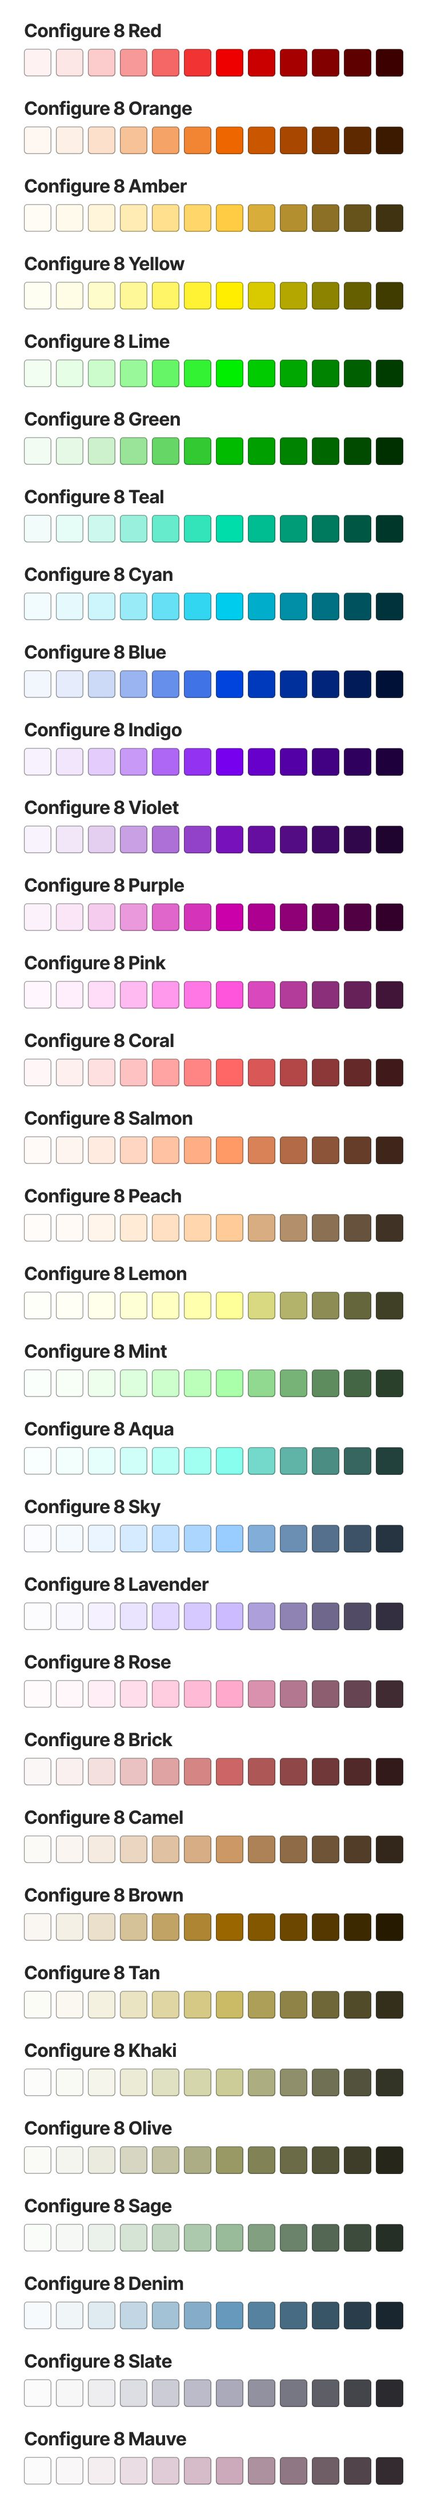
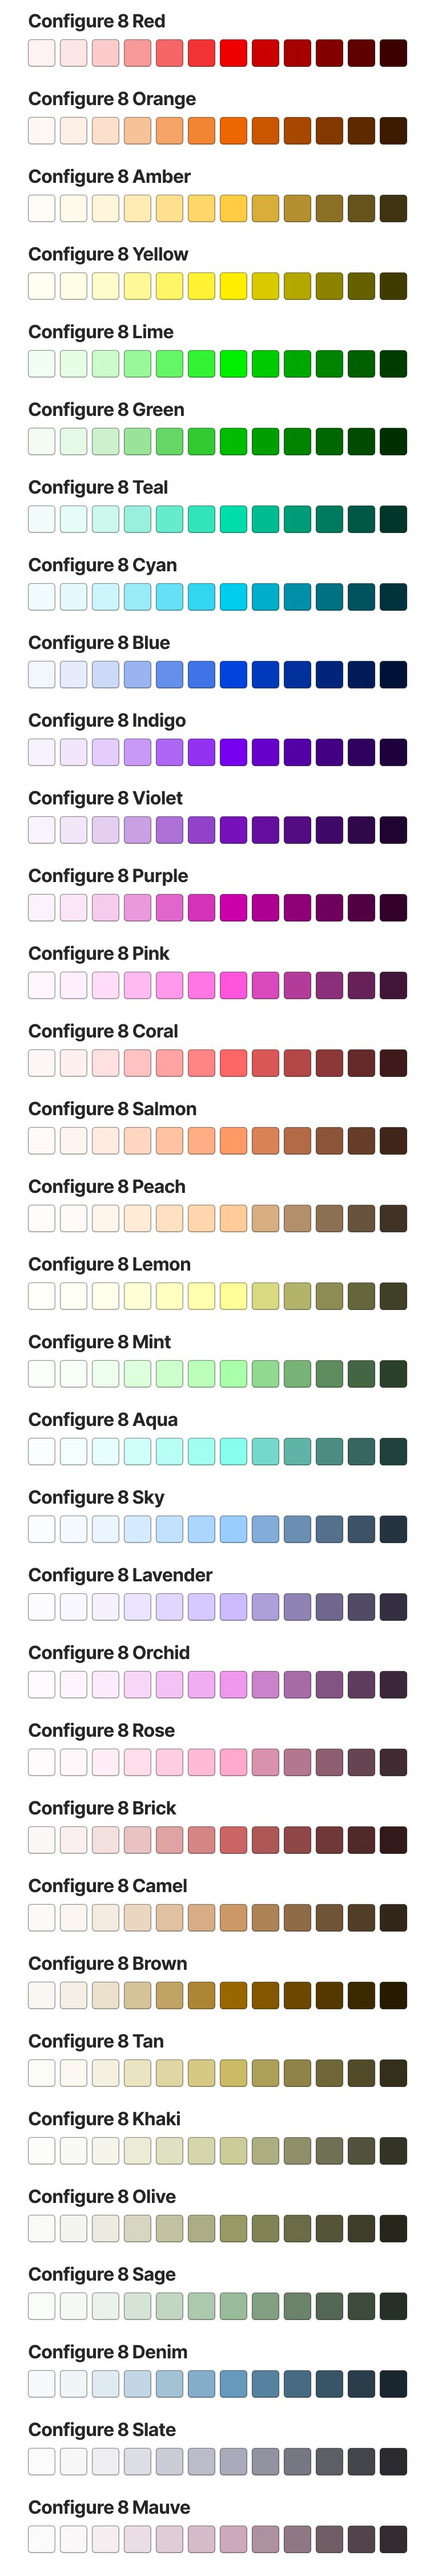
Update from theme.

diff --git a/style.min.css b/style.min.css
@@ -1,1 +1,1 @@
-:host,:root{--cfe-color--red-100: #fef2f2;--cfe-color--red-200: #fde6e6;--cfe-color--red-300: #fccccc;--cfe-color--red-400: #f89999;--cfe-color--red-500: #f56666;--cfe-color--red-600: #f13333;--cfe-color--red-700: #ee0000;--cfe-color--red-800: #ca0000;--cfe-color--red-900: #a70000;--cfe-color--red-1000: #830000;--cfe-color--red-1100: #5f0000;--cfe-color--red-1200: #3c0000;--cfe-color--orange-100: #fef7f2;--cfe-color--orange-200: #fdf0e6;--cfe-color--orange-300: #fce0cc;--cfe-color--orange-400: #f8c299;--cfe-color--orange-500: #f5a366;--cfe-color--orange-600: #f18533;--cfe-color--orange-700: #ee6600;--cfe-color--orange-800: #ca5700;--cfe-color--orange-900: #a74700;--cfe-color--orange-1000: #833800;--cfe-color--orange-1100: #5f2900;--cfe-color--orange-1200: #3c1a00;--cfe-color--amber-100: #fffcf6;--cfe-color--amber-200: #fffaec;--cfe-color--amber-300: #fff5da;--cfe-color--amber-400: #ffebb4;--cfe-color--amber-500: #ffe08f;--cfe-color--amber-600: #ffd669;--cfe-color--amber-700: #ffcc44;--cfe-color--amber-800: #d9ad3a;--cfe-color--amber-900: #b38f30;--cfe-color--amber-1000: #8c7025;--cfe-color--amber-1100: #66521b;--cfe-color--amber-1200: #403311;--cfe-color--yellow-100: #fffef2;--cfe-color--yellow-200: #fffde6;--cfe-color--yellow-300: #fffccc;--cfe-color--yellow-400: #fff899;--cfe-color--yellow-500: #fff566;--cfe-color--yellow-600: #fff133;--cfe-color--yellow-700: #ffee00;--cfe-color--yellow-800: #d9ca00;--cfe-color--yellow-900: #b3a700;--cfe-color--yellow-1000: #8c8300;--cfe-color--yellow-1100: #665f00;--cfe-color--yellow-1200: #403c00;--cfe-color--lime-100: #f2fef2;--cfe-color--lime-200: #e6fde6;--cfe-color--lime-300: #ccfccc;--cfe-color--lime-400: #99f899;--cfe-color--lime-500: #66f566;--cfe-color--lime-600: #33f133;--cfe-color--lime-700: #00ee00;--cfe-color--lime-800: #00ca00;--cfe-color--lime-900: #00a700;--cfe-color--lime-1000: #008300;--cfe-color--lime-1100: #005f00;--cfe-color--lime-1200: #003c00;--cfe-color--green-100: #f2fcf2;--cfe-color--green-200: #e6f8e6;--cfe-color--green-300: #ccf1cc;--cfe-color--green-400: #99e499;--cfe-color--green-500: #66d666;--cfe-color--green-600: #33c933;--cfe-color--green-700: #00bb00;--cfe-color--green-800: #009f00;--cfe-color--green-900: #008300;--cfe-color--green-1000: #006700;--cfe-color--green-1100: #004b00;--cfe-color--green-1200: #002f00;--cfe-color--teal-100: #f2fdfb;--cfe-color--teal-200: #e6fcf7;--cfe-color--teal-300: #ccf8ee;--cfe-color--teal-400: #99f1dd;--cfe-color--teal-500: #66ebcc;--cfe-color--teal-600: #33e4bb;--cfe-color--teal-700: #00ddaa;--cfe-color--teal-800: #00bc91;--cfe-color--teal-900: #009b77;--cfe-color--teal-1000: #007a5e;--cfe-color--teal-1100: #005844;--cfe-color--teal-1200: #00372b;--cfe-color--cyan-100: #f2fcfe;--cfe-color--cyan-200: #e6fafd;--cfe-color--cyan-300: #ccf5fc;--cfe-color--cyan-400: #99ebf8;--cfe-color--cyan-500: #66e0f5;--cfe-color--cyan-600: #33d6f1;--cfe-color--cyan-700: #00ccee;--cfe-color--cyan-800: #00adca;--cfe-color--cyan-900: #008fa7;--cfe-color--cyan-1000: #007083;--cfe-color--cyan-1100: #00525f;--cfe-color--cyan-1200: #00333c;--cfe-color--blue-100: #f2f6fd;--cfe-color--blue-200: #e6ecfc;--cfe-color--blue-300: #ccdaf8;--cfe-color--blue-400: #99b4f1;--cfe-color--blue-500: #668feb;--cfe-color--blue-600: #4073e6;--cfe-color--blue-700: #0044dd;--cfe-color--blue-800: #003abc;--cfe-color--blue-900: #00309b;--cfe-color--blue-1000: #00257a;--cfe-color--blue-1100: #001b58;--cfe-color--blue-1200: #001137;--cfe-color--indigo-100: #f8f2fe;--cfe-color--indigo-200: #f2e6fd;--cfe-color--indigo-300: #e4ccfc;--cfe-color--indigo-400: #c999f8;--cfe-color--indigo-500: #ae66f5;--cfe-color--indigo-600: #9333f1;--cfe-color--indigo-700: #7800ee;--cfe-color--indigo-800: #6600ca;--cfe-color--indigo-900: #5400a7;--cfe-color--indigo-1000: #420083;--cfe-color--indigo-1100: #30005f;--cfe-color--indigo-1200: #1e003c;--cfe-color--violet-100: #f8f3fc;--cfe-color--violet-200: #f1e7f8;--cfe-color--violet-300: #e4cff1;--cfe-color--violet-400: #c9a0e4;--cfe-color--violet-500: #ad70d6;--cfe-color--violet-600: #9241c9;--cfe-color--violet-700: #7711bb;--cfe-color--violet-800: #650e9f;--cfe-color--violet-900: #530c83;--cfe-color--violet-1000: #410967;--cfe-color--violet-1100: #30074b;--cfe-color--violet-1200: #1e042f;--cfe-color--purple-100: #fcf2fb;--cfe-color--purple-200: #fae6f7;--cfe-color--purple-300: #f5ccee;--cfe-color--purple-400: #eb99dd;--cfe-color--purple-500: #e066cc;--cfe-color--purple-600: #d633bb;--cfe-color--purple-700: #cc00aa;--cfe-color--purple-800: #ad0091;--cfe-color--purple-900: #8f0077;--cfe-color--purple-1000: #70005e;--cfe-color--purple-1100: #520044;--cfe-color--purple-1200: #33002b;--cfe-color--pink-100: #fff7fd;--cfe-color--pink-200: #ffeefc;--cfe-color--pink-300: #ffddf8;--cfe-color--pink-400: #ffbbf1;--cfe-color--pink-500: #ff99eb;--cfe-color--pink-600: #ff77e4;--cfe-color--pink-700: #ff55dd;--cfe-color--pink-800: #d948bc;--cfe-color--pink-900: #b33c9b;--cfe-color--pink-1000: #8c2f7a;--cfe-color--pink-1100: #662258;--cfe-color--pink-1200: #401537;--cfe-color--coral-100: #fff7f7;--cfe-color--coral-200: #fff0f0;--cfe-color--coral-300: #ffe0e0;--cfe-color--coral-400: #ffc2c2;--cfe-color--coral-500: #ffa3a3;--cfe-color--coral-600: #ff8585;--cfe-color--coral-700: #ff6666;--cfe-color--coral-800: #d95757;--cfe-color--coral-900: #b34747;--cfe-color--coral-1000: #8c3838;--cfe-color--coral-1100: #662929;--cfe-color--coral-1200: #401a1a;--cfe-color--salmon-100: #fffaf7;--cfe-color--salmon-200: #fff5f0;--cfe-color--salmon-300: #ffebe0;--cfe-color--salmon-400: #ffd6c2;--cfe-color--salmon-500: #ffc2a3;--cfe-color--salmon-600: #ffad85;--cfe-color--salmon-700: #ff9966;--cfe-color--salmon-800: #d98257;--cfe-color--salmon-900: #b36b47;--cfe-color--salmon-1000: #8c5438;--cfe-color--salmon-1100: #663d29;--cfe-color--salmon-1200: #40261a;--cfe-color--peach-100: #fffcfa;--cfe-color--peach-200: #fffaf5;--cfe-color--peach-300: #fff5eb;--cfe-color--peach-400: #ffebd6;--cfe-color--peach-500: #ffe0c2;--cfe-color--peach-600: #ffd6ad;--cfe-color--peach-700: #ffcc99;--cfe-color--peach-800: #d9ad82;--cfe-color--peach-900: #b38f6b;--cfe-color--peach-1000: #8c7054;--cfe-color--peach-1100: #66523d;--cfe-color--peach-1200: #403326;--cfe-color--lemon-100: #fffffa;--cfe-color--lemon-200: #fffff5;--cfe-color--lemon-300: #ffffeb;--cfe-color--lemon-400: #ffffd6;--cfe-color--lemon-500: #ffffc2;--cfe-color--lemon-600: #ffffad;--cfe-color--lemon-700: #ffff99;--cfe-color--lemon-800: #d9d982;--cfe-color--lemon-900: #b3b36b;--cfe-color--lemon-1000: #8c8c54;--cfe-color--lemon-1100: #66663d;--cfe-color--lemon-1200: #404026;--cfe-color--mint-100: #fbfffb;--cfe-color--mint-200: #f7fff7;--cfe-color--mint-300: #eeffee;--cfe-color--mint-400: #ddffdd;--cfe-color--mint-500: #ccffcc;--cfe-color--mint-600: #bbffbb;--cfe-color--mint-700: #aaffaa;--cfe-color--mint-800: #91d991;--cfe-color--mint-900: #77b377;--cfe-color--mint-1000: #5e8c5e;--cfe-color--mint-1100: #446644;--cfe-color--mint-1200: #2b402b;--cfe-color--aqua-100: #f9fffe;--cfe-color--aqua-200: #f3fffd;--cfe-color--aqua-300: #e7fffc;--cfe-color--aqua-400: #cffff8;--cfe-color--aqua-500: #b8fff5;--cfe-color--aqua-600: #a0fff1;--cfe-color--aqua-700: #88ffee;--cfe-color--aqua-800: #74d9ca;--cfe-color--aqua-900: #5fb3a7;--cfe-color--aqua-1000: #4b8c83;--cfe-color--aqua-1100: #36665f;--cfe-color--aqua-1200: #22403c;--cfe-color--sky-100: #fafcff;--cfe-color--sky-200: #f5faff;--cfe-color--sky-300: #ebf5ff;--cfe-color--sky-400: #d6ebff;--cfe-color--sky-500: #c2e0ff;--cfe-color--sky-600: #add6ff;--cfe-color--sky-700: #99ccff;--cfe-color--sky-800: #82add9;--cfe-color--sky-900: #6b8fb3;--cfe-color--sky-1000: #54708c;--cfe-color--sky-1100: #3d5266;--cfe-color--sky-1200: #263340;--cfe-color--lavender-100: #fcfcff;--cfe-color--lavender-200: #faf8ff;--cfe-color--lavender-300: #f5f1ff;--cfe-color--lavender-400: #ebe4ff;--cfe-color--lavender-500: #e0d6ff;--cfe-color--lavender-600: #d6c9ff;--cfe-color--lavender-700: #ccbbff;--cfe-color--lavender-800: #ad9fd9;--cfe-color--lavender-900: #8f83b3;--cfe-color--lavender-1000: #70678c;--cfe-color--lavender-1100: #524b66;--cfe-color--lavender-1200: #332f40;--cfe-color--rose-100: #fffbfc;--cfe-color--rose-200: #fff7fa;--cfe-color--rose-300: #ffeef5;--cfe-color--rose-400: #ffddeb;--cfe-color--rose-500: #ffcce0;--cfe-color--rose-600: #ffbbd6;--cfe-color--rose-700: #ffaacc;--cfe-color--rose-800: #d991ad;--cfe-color--rose-900: #b3778f;--cfe-color--rose-1000: #8c5e70;--cfe-color--rose-1100: #664452;--cfe-color--rose-1200: #402b33;--cfe-color--brick-100: #fcf7f7;--cfe-color--brick-200: #faf0f0;--cfe-color--brick-300: #f5e0e0;--cfe-color--brick-400: #ebc2c2;--cfe-color--brick-500: #e0a3a3;--cfe-color--brick-600: #d68585;--cfe-color--brick-700: #cc6666;--cfe-color--brick-800: #ad5757;--cfe-color--brick-900: #8f4747;--cfe-color--brick-1000: #703838;--cfe-color--brick-1100: #522929;--cfe-color--brick-1200: #331a1a;--cfe-color--camel-100: #fcfaf7;--cfe-color--camel-200: #faf5f0;--cfe-color--camel-300: #f5ebe0;--cfe-color--camel-400: #ebd6c2;--cfe-color--camel-500: #e0c2a3;--cfe-color--camel-600: #d6ad85;--cfe-color--camel-700: #cc9966;--cfe-color--camel-800: #ad8257;--cfe-color--camel-900: #8f6b47;--cfe-color--camel-1000: #705438;--cfe-color--camel-1100: #523d29;--cfe-color--camel-1200: #33261a;--cfe-color--brown-100: #faf7f2;--cfe-color--brown-200: #f5f0e6;--cfe-color--brown-300: #ebe0cc;--cfe-color--brown-400: #d6c299;--cfe-color--brown-500: #c2a366;--cfe-color--brown-600: #ad8533;--cfe-color--brown-700: #996600;--cfe-color--brown-800: #825700;--cfe-color--brown-900: #6b4700;--cfe-color--brown-1000: #543800;--cfe-color--brown-1100: #3d2900;--cfe-color--brown-1200: #261a00;--cfe-color--tan-100: #fcfcf7;--cfe-color--tan-200: #faf8f0;--cfe-color--tan-300: #f5f1e0;--cfe-color--tan-400: #ebe4c2;--cfe-color--tan-500: #e0d6a3;--cfe-color--tan-600: #d6c985;--cfe-color--tan-700: #ccbb66;--cfe-color--tan-800: #ad9f57;--cfe-color--tan-900: #8f8347;--cfe-color--tan-1000: #706738;--cfe-color--tan-1100: #524b29;--cfe-color--tan-1200: #332f1a;--cfe-color--khaki-100: #fcfcfa;--cfe-color--khaki-200: #fafaf5;--cfe-color--khaki-300: #f5f5eb;--cfe-color--khaki-400: #ebebd6;--cfe-color--khaki-500: #e0e0c2;--cfe-color--khaki-600: #d6d6ad;--cfe-color--khaki-700: #cccc99;--cfe-color--khaki-800: #adad82;--cfe-color--khaki-900: #8f8f6b;--cfe-color--khaki-1000: #707054;--cfe-color--khaki-1100: #52523d;--cfe-color--khaki-1200: #333326;--cfe-color--olive-100: #fafaf7;--cfe-color--olive-200: #f5f5f0;--cfe-color--olive-300: #ebebe0;--cfe-color--olive-400: #d6d6c2;--cfe-color--olive-500: #c2c2a3;--cfe-color--olive-600: #adad85;--cfe-color--olive-700: #999966;--cfe-color--olive-800: #828257;--cfe-color--olive-900: #6b6b47;--cfe-color--olive-1000: #545438;--cfe-color--olive-1100: #3d3d29;--cfe-color--olive-1200: #26261a;--cfe-color--sage-100: #fafcfa;--cfe-color--sage-200: #f5f8f5;--cfe-color--sage-300: #ebf1eb;--cfe-color--sage-400: #d6e4d6;--cfe-color--sage-500: #c2d6c2;--cfe-color--sage-600: #adc9ad;--cfe-color--sage-700: #99bb99;--cfe-color--sage-800: #829f82;--cfe-color--sage-900: #6b836b;--cfe-color--sage-1000: #546754;--cfe-color--sage-1100: #3d4b3d;--cfe-color--sage-1200: #262f26;--cfe-color--slate-100: #fbfbfc;--cfe-color--slate-200: #f7f7f8;--cfe-color--slate-300: #eeeef1;--cfe-color--slate-400: #dddde4;--cfe-color--slate-500: #ccccd6;--cfe-color--slate-600: #bbbbc9;--cfe-color--slate-700: #aaaabb;--cfe-color--slate-800: #91919f;--cfe-color--slate-900: #777783;--cfe-color--slate-1000: #5e5e67;--cfe-color--slate-1100: #44444b;--cfe-color--slate-1200: #2b2b2f;--cfe-color--mauve-100: #fcfbfc;--cfe-color--mauve-200: #faf7f8;--cfe-color--mauve-300: #f5eef1;--cfe-color--mauve-400: #ebdde4;--cfe-color--mauve-500: #e0ccd6;--cfe-color--mauve-600: #d6bbc9;--cfe-color--mauve-700: #ccaabb;--cfe-color--mauve-800: #ad919f;--cfe-color--mauve-900: #8f7783;--cfe-color--mauve-1000: #705e67;--cfe-color--mauve-1100: #52444b;--cfe-color--mauve-1200: #332b2f;--cfe-color--vanilla-100: #fffffc;--cfe-color--vanilla-200: #fffffa;--cfe-color--vanilla-300: #fffff7;--cfe-color--vanilla-400: #fffff5;--cfe-color--vanilla-500: #fffff0;--cfe-color--vanilla-600: #ffffeb;--cfe-color--vanilla-700: #ffffe6;--cfe-color--vanilla-800: #ffffe0;--cfe-color--vanilla-900: #ffffdb;--cfe-color--vanilla-1000: #ffffd6;--cfe-color--vanilla-1100: #ffffd1;--cfe-color--vanilla-1200: #ffffcc;--cfe-color--chocolate-100: #baa38c;--cfe-color--chocolate-200: #ab8f73;--cfe-color--chocolate-300: #a38566;--cfe-color--chocolate-400: #94704d;--cfe-color--chocolate-500: #855c33;--cfe-color--chocolate-600: #75471a;--cfe-color--chocolate-700: #6e3d0d;--cfe-color--chocolate-800: #663300;--cfe-color--chocolate-900: #572b00;--cfe-color--chocolate-1000: #472400;--cfe-color--chocolate-1100: #381c00;--cfe-color--chocolate-1200: #291400}
+:host,:root{--cfe-color--red-100: #fef2f2;--cfe-color--red-200: #fde6e6;--cfe-color--red-300: #fccccc;--cfe-color--red-400: #f89999;--cfe-color--red-500: #f56666;--cfe-color--red-600: #f13333;--cfe-color--red-700: #ee0000;--cfe-color--red-800: #ca0000;--cfe-color--red-900: #a70000;--cfe-color--red-1000: #830000;--cfe-color--red-1100: #5f0000;--cfe-color--red-1200: #3c0000;--cfe-color--orange-100: #fef7f2;--cfe-color--orange-200: #fdf0e6;--cfe-color--orange-300: #fce0cc;--cfe-color--orange-400: #f8c299;--cfe-color--orange-500: #f5a366;--cfe-color--orange-600: #f18533;--cfe-color--orange-700: #ee6600;--cfe-color--orange-800: #ca5700;--cfe-color--orange-900: #a74700;--cfe-color--orange-1000: #833800;--cfe-color--orange-1100: #5f2900;--cfe-color--orange-1200: #3c1a00;--cfe-color--amber-100: #fffcf6;--cfe-color--amber-200: #fffaec;--cfe-color--amber-300: #fff5da;--cfe-color--amber-400: #ffebb4;--cfe-color--amber-500: #ffe08f;--cfe-color--amber-600: #ffd669;--cfe-color--amber-700: #ffcc44;--cfe-color--amber-800: #d9ad3a;--cfe-color--amber-900: #b38f30;--cfe-color--amber-1000: #8c7025;--cfe-color--amber-1100: #66521b;--cfe-color--amber-1200: #403311;--cfe-color--yellow-100: #fffef2;--cfe-color--yellow-200: #fffde6;--cfe-color--yellow-300: #fffccc;--cfe-color--yellow-400: #fff899;--cfe-color--yellow-500: #fff566;--cfe-color--yellow-600: #fff133;--cfe-color--yellow-700: #ffee00;--cfe-color--yellow-800: #d9ca00;--cfe-color--yellow-900: #b3a700;--cfe-color--yellow-1000: #8c8300;--cfe-color--yellow-1100: #665f00;--cfe-color--yellow-1200: #403c00;--cfe-color--lime-100: #f2fef2;--cfe-color--lime-200: #e6fde6;--cfe-color--lime-300: #ccfccc;--cfe-color--lime-400: #99f899;--cfe-color--lime-500: #66f566;--cfe-color--lime-600: #33f133;--cfe-color--lime-700: #00ee00;--cfe-color--lime-800: #00ca00;--cfe-color--lime-900: #00a700;--cfe-color--lime-1000: #008300;--cfe-color--lime-1100: #005f00;--cfe-color--lime-1200: #003c00;--cfe-color--green-100: #f2fcf2;--cfe-color--green-200: #e6f8e6;--cfe-color--green-300: #ccf1cc;--cfe-color--green-400: #99e499;--cfe-color--green-500: #66d666;--cfe-color--green-600: #33c933;--cfe-color--green-700: #00bb00;--cfe-color--green-800: #009f00;--cfe-color--green-900: #008300;--cfe-color--green-1000: #006700;--cfe-color--green-1100: #004b00;--cfe-color--green-1200: #002f00;--cfe-color--teal-100: #f2fdfb;--cfe-color--teal-200: #e6fcf7;--cfe-color--teal-300: #ccf8ee;--cfe-color--teal-400: #99f1dd;--cfe-color--teal-500: #66ebcc;--cfe-color--teal-600: #33e4bb;--cfe-color--teal-700: #00ddaa;--cfe-color--teal-800: #00bc91;--cfe-color--teal-900: #009b77;--cfe-color--teal-1000: #007a5e;--cfe-color--teal-1100: #005844;--cfe-color--teal-1200: #00372b;--cfe-color--cyan-100: #f2fcfe;--cfe-color--cyan-200: #e6fafd;--cfe-color--cyan-300: #ccf5fc;--cfe-color--cyan-400: #99ebf8;--cfe-color--cyan-500: #66e0f5;--cfe-color--cyan-600: #33d6f1;--cfe-color--cyan-700: #00ccee;--cfe-color--cyan-800: #00adca;--cfe-color--cyan-900: #008fa7;--cfe-color--cyan-1000: #007083;--cfe-color--cyan-1100: #00525f;--cfe-color--cyan-1200: #00333c;--cfe-color--blue-100: #f2f6fd;--cfe-color--blue-200: #e6ecfc;--cfe-color--blue-300: #ccdaf8;--cfe-color--blue-400: #99b4f1;--cfe-color--blue-500: #668feb;--cfe-color--blue-600: #4073e6;--cfe-color--blue-700: #0044dd;--cfe-color--blue-800: #003abc;--cfe-color--blue-900: #00309b;--cfe-color--blue-1000: #00257a;--cfe-color--blue-1100: #001b58;--cfe-color--blue-1200: #001137;--cfe-color--indigo-100: #f8f2fe;--cfe-color--indigo-200: #f2e6fd;--cfe-color--indigo-300: #e4ccfc;--cfe-color--indigo-400: #c999f8;--cfe-color--indigo-500: #ae66f5;--cfe-color--indigo-600: #9333f1;--cfe-color--indigo-700: #7800ee;--cfe-color--indigo-800: #6600ca;--cfe-color--indigo-900: #5400a7;--cfe-color--indigo-1000: #420083;--cfe-color--indigo-1100: #30005f;--cfe-color--indigo-1200: #1e003c;--cfe-color--violet-100: #f8f3fc;--cfe-color--violet-200: #f1e7f8;--cfe-color--violet-300: #e4cff1;--cfe-color--violet-400: #c9a0e4;--cfe-color--violet-500: #ad70d6;--cfe-color--violet-600: #9241c9;--cfe-color--violet-700: #7711bb;--cfe-color--violet-800: #650e9f;--cfe-color--violet-900: #530c83;--cfe-color--violet-1000: #410967;--cfe-color--violet-1100: #30074b;--cfe-color--violet-1200: #1e042f;--cfe-color--purple-100: #fcf2fb;--cfe-color--purple-200: #fae6f7;--cfe-color--purple-300: #f5ccee;--cfe-color--purple-400: #eb99dd;--cfe-color--purple-500: #e066cc;--cfe-color--purple-600: #d633bb;--cfe-color--purple-700: #cc00aa;--cfe-color--purple-800: #ad0091;--cfe-color--purple-900: #8f0077;--cfe-color--purple-1000: #70005e;--cfe-color--purple-1100: #520044;--cfe-color--purple-1200: #33002b;--cfe-color--pink-100: #fff7fd;--cfe-color--pink-200: #ffeefc;--cfe-color--pink-300: #ffddf8;--cfe-color--pink-400: #ffbbf1;--cfe-color--pink-500: #ff99eb;--cfe-color--pink-600: #ff77e4;--cfe-color--pink-700: #ff55dd;--cfe-color--pink-800: #d948bc;--cfe-color--pink-900: #b33c9b;--cfe-color--pink-1000: #8c2f7a;--cfe-color--pink-1100: #662258;--cfe-color--pink-1200: #401537;--cfe-color--coral-100: #fff7f7;--cfe-color--coral-200: #fff0f0;--cfe-color--coral-300: #ffe0e0;--cfe-color--coral-400: #ffc2c2;--cfe-color--coral-500: #ffa3a3;--cfe-color--coral-600: #ff8585;--cfe-color--coral-700: #ff6666;--cfe-color--coral-800: #d95757;--cfe-color--coral-900: #b34747;--cfe-color--coral-1000: #8c3838;--cfe-color--coral-1100: #662929;--cfe-color--coral-1200: #401a1a;--cfe-color--salmon-100: #fffaf7;--cfe-color--salmon-200: #fff5f0;--cfe-color--salmon-300: #ffebe0;--cfe-color--salmon-400: #ffd6c2;--cfe-color--salmon-500: #ffc2a3;--cfe-color--salmon-600: #ffad85;--cfe-color--salmon-700: #ff9966;--cfe-color--salmon-800: #d98257;--cfe-color--salmon-900: #b36b47;--cfe-color--salmon-1000: #8c5438;--cfe-color--salmon-1100: #663d29;--cfe-color--salmon-1200: #40261a;--cfe-color--peach-100: #fffcfa;--cfe-color--peach-200: #fffaf5;--cfe-color--peach-300: #fff5eb;--cfe-color--peach-400: #ffebd6;--cfe-color--peach-500: #ffe0c2;--cfe-color--peach-600: #ffd6ad;--cfe-color--peach-700: #ffcc99;--cfe-color--peach-800: #d9ad82;--cfe-color--peach-900: #b38f6b;--cfe-color--peach-1000: #8c7054;--cfe-color--peach-1100: #66523d;--cfe-color--peach-1200: #403326;--cfe-color--lemon-100: #fffffa;--cfe-color--lemon-200: #fffff5;--cfe-color--lemon-300: #ffffeb;--cfe-color--lemon-400: #ffffd6;--cfe-color--lemon-500: #ffffc2;--cfe-color--lemon-600: #ffffad;--cfe-color--lemon-700: #ffff99;--cfe-color--lemon-800: #d9d982;--cfe-color--lemon-900: #b3b36b;--cfe-color--lemon-1000: #8c8c54;--cfe-color--lemon-1100: #66663d;--cfe-color--lemon-1200: #404026;--cfe-color--mint-100: #fbfffb;--cfe-color--mint-200: #f7fff7;--cfe-color--mint-300: #eeffee;--cfe-color--mint-400: #ddffdd;--cfe-color--mint-500: #ccffcc;--cfe-color--mint-600: #bbffbb;--cfe-color--mint-700: #aaffaa;--cfe-color--mint-800: #91d991;--cfe-color--mint-900: #77b377;--cfe-color--mint-1000: #5e8c5e;--cfe-color--mint-1100: #446644;--cfe-color--mint-1200: #2b402b;--cfe-color--aqua-100: #f9fffe;--cfe-color--aqua-200: #f3fffd;--cfe-color--aqua-300: #e7fffc;--cfe-color--aqua-400: #cffff8;--cfe-color--aqua-500: #b8fff5;--cfe-color--aqua-600: #a0fff1;--cfe-color--aqua-700: #88ffee;--cfe-color--aqua-800: #74d9ca;--cfe-color--aqua-900: #5fb3a7;--cfe-color--aqua-1000: #4b8c83;--cfe-color--aqua-1100: #36665f;--cfe-color--aqua-1200: #22403c;--cfe-color--sky-100: #fafcff;--cfe-color--sky-200: #f5faff;--cfe-color--sky-300: #ebf5ff;--cfe-color--sky-400: #d6ebff;--cfe-color--sky-500: #c2e0ff;--cfe-color--sky-600: #add6ff;--cfe-color--sky-700: #99ccff;--cfe-color--sky-800: #82add9;--cfe-color--sky-900: #6b8fb3;--cfe-color--sky-1000: #54708c;--cfe-color--sky-1100: #3d5266;--cfe-color--sky-1200: #263340;--cfe-color--lavender-100: #fcfcff;--cfe-color--lavender-200: #faf8ff;--cfe-color--lavender-300: #f5f1ff;--cfe-color--lavender-400: #ebe4ff;--cfe-color--lavender-500: #e0d6ff;--cfe-color--lavender-600: #d6c9ff;--cfe-color--lavender-700: #ccbbff;--cfe-color--lavender-800: #ad9fd9;--cfe-color--lavender-900: #8f83b3;--cfe-color--lavender-1000: #70678c;--cfe-color--lavender-1100: #524b66;--cfe-color--lavender-1200: #332f40;--cfe-color--orchid-100: #fefafe;--cfe-color--orchid-200: #fdf5fd;--cfe-color--orchid-300: #fcebfc;--cfe-color--orchid-400: #f8d6f8;--cfe-color--orchid-500: #f5c2f5;--cfe-color--orchid-600: #f1adf1;--cfe-color--orchid-700: #ee99ee;--cfe-color--orchid-800: #ca82ca;--cfe-color--orchid-900: #a76ba7;--cfe-color--orchid-1000: #835483;--cfe-color--orchid-1100: #5f3d5f;--cfe-color--orchid-1200: #3c263c;--cfe-color--rose-100: #fffbfc;--cfe-color--rose-200: #fff7fa;--cfe-color--rose-300: #ffeef5;--cfe-color--rose-400: #ffddeb;--cfe-color--rose-500: #ffcce0;--cfe-color--rose-600: #ffbbd6;--cfe-color--rose-700: #ffaacc;--cfe-color--rose-800: #d991ad;--cfe-color--rose-900: #b3778f;--cfe-color--rose-1000: #8c5e70;--cfe-color--rose-1100: #664452;--cfe-color--rose-1200: #402b33;--cfe-color--brick-100: #fcf7f7;--cfe-color--brick-200: #faf0f0;--cfe-color--brick-300: #f5e0e0;--cfe-color--brick-400: #ebc2c2;--cfe-color--brick-500: #e0a3a3;--cfe-color--brick-600: #d68585;--cfe-color--brick-700: #cc6666;--cfe-color--brick-800: #ad5757;--cfe-color--brick-900: #8f4747;--cfe-color--brick-1000: #703838;--cfe-color--brick-1100: #522929;--cfe-color--brick-1200: #331a1a;--cfe-color--camel-100: #fcfaf7;--cfe-color--camel-200: #faf5f0;--cfe-color--camel-300: #f5ebe0;--cfe-color--camel-400: #ebd6c2;--cfe-color--camel-500: #e0c2a3;--cfe-color--camel-600: #d6ad85;--cfe-color--camel-700: #cc9966;--cfe-color--camel-800: #ad8257;--cfe-color--camel-900: #8f6b47;--cfe-color--camel-1000: #705438;--cfe-color--camel-1100: #523d29;--cfe-color--camel-1200: #33261a;--cfe-color--brown-100: #faf7f2;--cfe-color--brown-200: #f5f0e6;--cfe-color--brown-300: #ebe0cc;--cfe-color--brown-400: #d6c299;--cfe-color--brown-500: #c2a366;--cfe-color--brown-600: #ad8533;--cfe-color--brown-700: #996600;--cfe-color--brown-800: #825700;--cfe-color--brown-900: #6b4700;--cfe-color--brown-1000: #543800;--cfe-color--brown-1100: #3d2900;--cfe-color--brown-1200: #261a00;--cfe-color--tan-100: #fcfcf7;--cfe-color--tan-200: #faf8f0;--cfe-color--tan-300: #f5f1e0;--cfe-color--tan-400: #ebe4c2;--cfe-color--tan-500: #e0d6a3;--cfe-color--tan-600: #d6c985;--cfe-color--tan-700: #ccbb66;--cfe-color--tan-800: #ad9f57;--cfe-color--tan-900: #8f8347;--cfe-color--tan-1000: #706738;--cfe-color--tan-1100: #524b29;--cfe-color--tan-1200: #332f1a;--cfe-color--khaki-100: #fcfcfa;--cfe-color--khaki-200: #fafaf5;--cfe-color--khaki-300: #f5f5eb;--cfe-color--khaki-400: #ebebd6;--cfe-color--khaki-500: #e0e0c2;--cfe-color--khaki-600: #d6d6ad;--cfe-color--khaki-700: #cccc99;--cfe-color--khaki-800: #adad82;--cfe-color--khaki-900: #8f8f6b;--cfe-color--khaki-1000: #707054;--cfe-color--khaki-1100: #52523d;--cfe-color--khaki-1200: #333326;--cfe-color--olive-100: #fafaf7;--cfe-color--olive-200: #f5f5f0;--cfe-color--olive-300: #ebebe0;--cfe-color--olive-400: #d6d6c2;--cfe-color--olive-500: #c2c2a3;--cfe-color--olive-600: #adad85;--cfe-color--olive-700: #999966;--cfe-color--olive-800: #828257;--cfe-color--olive-900: #6b6b47;--cfe-color--olive-1000: #545438;--cfe-color--olive-1100: #3d3d29;--cfe-color--olive-1200: #26261a;--cfe-color--sage-100: #fafcfa;--cfe-color--sage-200: #f5f8f5;--cfe-color--sage-300: #ebf1eb;--cfe-color--sage-400: #d6e4d6;--cfe-color--sage-500: #c2d6c2;--cfe-color--sage-600: #adc9ad;--cfe-color--sage-700: #99bb99;--cfe-color--sage-800: #829f82;--cfe-color--sage-900: #6b836b;--cfe-color--sage-1000: #546754;--cfe-color--sage-1100: #3d4b3d;--cfe-color--sage-1200: #262f26;--cfe-color--denim-100: #f7fafc;--cfe-color--denim-200: #f0f5f8;--cfe-color--denim-300: #e0ebf1;--cfe-color--denim-400: #c2d6e4;--cfe-color--denim-500: #a3c2d6;--cfe-color--denim-600: #85adc9;--cfe-color--denim-700: #6699bb;--cfe-color--denim-800: #57829f;--cfe-color--denim-900: #476b83;--cfe-color--denim-1000: #385467;--cfe-color--denim-1100: #293d4b;--cfe-color--denim-1200: #1a262f;--cfe-color--slate-100: #fbfbfc;--cfe-color--slate-200: #f7f7f8;--cfe-color--slate-300: #eeeef1;--cfe-color--slate-400: #dddde4;--cfe-color--slate-500: #ccccd6;--cfe-color--slate-600: #bbbbc9;--cfe-color--slate-700: #aaaabb;--cfe-color--slate-800: #91919f;--cfe-color--slate-900: #777783;--cfe-color--slate-1000: #5e5e67;--cfe-color--slate-1100: #44444b;--cfe-color--slate-1200: #2b2b2f;--cfe-color--mauve-100: #fcfbfc;--cfe-color--mauve-200: #faf7f8;--cfe-color--mauve-300: #f5eef1;--cfe-color--mauve-400: #ebdde4;--cfe-color--mauve-500: #e0ccd6;--cfe-color--mauve-600: #d6bbc9;--cfe-color--mauve-700: #ccaabb;--cfe-color--mauve-800: #ad919f;--cfe-color--mauve-900: #8f7783;--cfe-color--mauve-1000: #705e67;--cfe-color--mauve-1100: #52444b;--cfe-color--mauve-1200: #332b2f}

diff --git a/_colors.scss b/_colors.scss
@@ -26,6 +26,7 @@ $mint:      #aaffaa !default;
 $aqua:      #88ffee !default;
 $sky:       #99ccff !default;
 $lavender:  #ccbbff !default;
+$orchid:    #ee99ee !default;
 $rose:      #ffaacc !default;
 $brick:     #cc6666 !default;
 $camel:     #cc9966 !default;
@@ -34,66 +35,9 @@ $tan:       #ccbb66 !default;
 $khaki:     #cccc99 !default;
 $olive:     #999966 !default;
 $sage:      #99bb99 !default;
+$denim:     #6699bb !default;
 $slate:     #aaaabb !default;
 $mauve:     #ccaabb !default;
-$vanilla:   #ffffcc !default;
-$chocolate: #663300 !default;
-
-$color_map: (
-	'red'      : $red,
-	'orange'   : $orange,
-	'amber'    : $amber,
-	'yellow'   : $yellow,
-	'lime'     : $lime,
-	'green'    : $green,
-	'teal'     : $teal,
-	'cyan'     : $cyan,
-	'blue'     : $blue,
-	'indigo'   : $indigo,
-	'violet'   : $violet,
-	'purple'   : $purple,
-	'pink'     : $pink,
-	'coral'    : $coral,
-	'salmon'   : $salmon,
-	'peach'    : $peach,
-	'lemon'    : $lemon,
-	'mint'     : $mint,
-	'aqua'     : $aqua,
-	'sky'      : $sky,
-	'lavender' : $lavender,
-	'rose'     : $rose,
-	'brick'    : $brick,
-	'camel'    : $camel,
-	'brown'    : $brown,
-	'tan'      : $tan,
-	'khaki'    : $khaki,
-	'olive'    : $olive,
-	'sage'     : $sage,
-	'slate'    : $slate,
-	'mauve'    : $mauve
-) !default;
-
-$light: (
-	'body'  : #ffffff,
-	'text'  : #333333,
-	'one'   : #0044ff,
-	'two'   : #0044aa,
-	'three' : #0044aa,
-	'four'  : #0044ff,
-	'five'  : #0044aa,
-	'six'   : #0044ff
-);
-$dark: (
-	'body'  : #1e1e1e,
-	'text'  : #ffffff,
-	'one'   : #0044ff,
-	'two'   : #0044cc,
-	'three' : #0044ff,
-	'four'  : #0044cc,
-	'five'  : #0044aa,
-	'six'   : #0044ff
-);
-$extra: $color_map;
 
 $red-100:  f.lighten( $red, 95% ) !default;
 $red-200:  f.lighten( $red, 90% ) !default;
@@ -683,6 +627,34 @@ $lavender_map: (
 	'lavender-1200' : $lavender-1200
 ) !default;
 
+$orchid-100:  f.lighten( $orchid, 95% ) !default;
+$orchid-200:  f.lighten( $orchid, 90% ) !default;
+$orchid-300:  f.lighten( $orchid, 80% ) !default;
+$orchid-400:  f.lighten( $orchid, 60% ) !default;
+$orchid-500:  f.lighten( $orchid, 40% ) !default;
+$orchid-600:  f.lighten( $orchid, 20% ) !default;
+$orchid-700:  $orchid !default;
+$orchid-800:  f.darken( $orchid, 15% ) !default;
+$orchid-900:  f.darken( $orchid, 30% ) !default;
+$orchid-1000: f.darken( $orchid, 45% ) !default;
+$orchid-1100: f.darken( $orchid, 60% ) !default;
+$orchid-1200: f.darken( $orchid, 75% ) !default;
+
+$orchid_map: (
+	'orchid-100'  : $orchid-100,
+	'orchid-200'  : $orchid-200,
+	'orchid-300'  : $orchid-300,
+	'orchid-400'  : $orchid-400,
+	'orchid-500'  : $orchid-500,
+	'orchid-600'  : $orchid-600,
+	'orchid-700'  : $orchid-700,
+	'orchid-800'  : $orchid-800,
+	'orchid-900'  : $orchid-900,
+	'orchid-1000' : $orchid-1000,
+	'orchid-1100' : $orchid-1100,
+	'orchid-1200' : $orchid-1200
+) !default;
+
 $rose-100:  f.lighten( $rose, 95% ) !default;
 $rose-200:  f.lighten( $rose, 90% ) !default;
 $rose-300:  f.lighten( $rose, 80% ) !default;
@@ -907,6 +879,34 @@ $sage_map: (
 	'sage-1200' : $sage-1200
 ) !default;
 
+$denim-100:  f.lighten( $denim, 95% ) !default;
+$denim-200:  f.lighten( $denim, 90% ) !default;
+$denim-300:  f.lighten( $denim, 80% ) !default;
+$denim-400:  f.lighten( $denim, 60% ) !default;
+$denim-500:  f.lighten( $denim, 40% ) !default;
+$denim-600:  f.lighten( $denim, 20% ) !default;
+$denim-700:  $denim !default;
+$denim-800:  f.darken( $denim, 15% ) !default;
+$denim-900:  f.darken( $denim, 30% ) !default;
+$denim-1000: f.darken( $denim, 45% ) !default;
+$denim-1100: f.darken( $denim, 60% ) !default;
+$denim-1200: f.darken( $denim, 75% ) !default;
+
+$denim_map: (
+	'denim-100'  : $denim-100,
+	'denim-200'  : $denim-200,
+	'denim-300'  : $denim-300,
+	'denim-400'  : $denim-400,
+	'denim-500'  : $denim-500,
+	'denim-600'  : $denim-600,
+	'denim-700'  : $denim-700,
+	'denim-800'  : $denim-800,
+	'denim-900'  : $denim-900,
+	'denim-1000' : $denim-1000,
+	'denim-1100' : $denim-1100,
+	'denim-1200' : $denim-1200
+) !default;
+
 $slate-100:  f.lighten( $slate, 95% ) !default;
 $slate-200:  f.lighten( $slate, 90% ) !default;
 $slate-300:  f.lighten( $slate, 80% ) !default;
@@ -961,60 +961,4 @@ $mauve_map: (
 	'mauve-1000' : $mauve-1000,
 	'mauve-1100' : $mauve-1100,
 	'mauve-1200' : $mauve-1200
-) !default;
-
-$vanilla-100:  f.lighten( $vanilla, 95% ) !default;
-$vanilla-200:  f.lighten( $vanilla, 90% ) !default;
-$vanilla-300:  f.lighten( $vanilla, 85% ) !default;
-$vanilla-400:  f.lighten( $vanilla, 80% ) !default;
-$vanilla-500:  f.lighten( $vanilla, 70% ) !default;
-$vanilla-600:  f.lighten( $vanilla, 60% ) !default;
-$vanilla-700:  f.lighten( $vanilla, 50% ) !default;
-$vanilla-800:  f.lighten( $vanilla, 40% ) !default;
-$vanilla-900:  f.lighten( $vanilla, 30% ) !default;
-$vanilla-1000:  f.lighten( $vanilla, 20% ) !default;
-$vanilla-1100:  f.lighten( $vanilla, 10% ) !default;
-$vanilla-1200:  $vanilla !default;
-
-$vanilla_map: (
-	'vanilla-100'  : $vanilla-100,
-	'vanilla-200'  : $vanilla-200,
-	'vanilla-300'  : $vanilla-300,
-	'vanilla-400'  : $vanilla-400,
-	'vanilla-500'  : $vanilla-500,
-	'vanilla-600'  : $vanilla-600,
-	'vanilla-700'  : $vanilla-700,
-	'vanilla-800'  : $vanilla-800,
-	'vanilla-900'  : $vanilla-900,
-	'vanilla-1000' : $vanilla-1000,
-	'vanilla-1100' : $vanilla-1100,
-	'vanilla-1200' : $vanilla-1200
-) !default;
-
-$chocolate-100:  f.lighten( $chocolate, 55% ) !default;
-$chocolate-200:  f.lighten( $chocolate, 45% ) !default;
-$chocolate-300:  f.lighten( $chocolate, 40% ) !default;
-$chocolate-400:  f.lighten( $chocolate, 30% ) !default;
-$chocolate-500:  f.lighten( $chocolate, 20% ) !default;
-$chocolate-600:  f.lighten( $chocolate, 10% ) !default;
-$chocolate-700:  f.lighten( $chocolate, 5% ) !default;
-$chocolate-800:  $chocolate !default;
-$chocolate-900:  f.darken( $chocolate, 15% ) !default;
-$chocolate-1000:  f.darken( $chocolate, 30% ) !default;
-$chocolate-1100: f.darken( $chocolate, 45% ) !default;
-$chocolate-1200: f.darken( $chocolate, 60% ) !default;
-
-$chocolate_map: (
-	'chocolate-100'  : $chocolate-100,
-	'chocolate-200'  : $chocolate-200,
-	'chocolate-300'  : $chocolate-300,
-	'chocolate-400'  : $chocolate-400,
-	'chocolate-500'  : $chocolate-500,
-	'chocolate-600'  : $chocolate-600,
-	'chocolate-700'  : $chocolate-700,
-	'chocolate-800'  : $chocolate-800,
-	'chocolate-900'  : $chocolate-900,
-	'chocolate-1000' : $chocolate-1000,
-	'chocolate-1100' : $chocolate-1100,
-	'chocolate-1200' : $chocolate-1200
 ) !default;

diff --git a/style.css b/style.css
@@ -252,6 +252,18 @@
   --cfe-color--lavender-1000: #70678c;
   --cfe-color--lavender-1100: #524b66;
   --cfe-color--lavender-1200: #332f40;
+  --cfe-color--orchid-100: #fefafe;
+  --cfe-color--orchid-200: #fdf5fd;
+  --cfe-color--orchid-300: #fcebfc;
+  --cfe-color--orchid-400: #f8d6f8;
+  --cfe-color--orchid-500: #f5c2f5;
+  --cfe-color--orchid-600: #f1adf1;
+  --cfe-color--orchid-700: #ee99ee;
+  --cfe-color--orchid-800: #ca82ca;
+  --cfe-color--orchid-900: #a76ba7;
+  --cfe-color--orchid-1000: #835483;
+  --cfe-color--orchid-1100: #5f3d5f;
+  --cfe-color--orchid-1200: #3c263c;
   --cfe-color--rose-100: #fffbfc;
   --cfe-color--rose-200: #fff7fa;
   --cfe-color--rose-300: #ffeef5;
@@ -348,6 +360,18 @@
   --cfe-color--sage-1000: #546754;
   --cfe-color--sage-1100: #3d4b3d;
   --cfe-color--sage-1200: #262f26;
+  --cfe-color--denim-100: #f7fafc;
+  --cfe-color--denim-200: #f0f5f8;
+  --cfe-color--denim-300: #e0ebf1;
+  --cfe-color--denim-400: #c2d6e4;
+  --cfe-color--denim-500: #a3c2d6;
+  --cfe-color--denim-600: #85adc9;
+  --cfe-color--denim-700: #6699bb;
+  --cfe-color--denim-800: #57829f;
+  --cfe-color--denim-900: #476b83;
+  --cfe-color--denim-1000: #385467;
+  --cfe-color--denim-1100: #293d4b;
+  --cfe-color--denim-1200: #1a262f;
   --cfe-color--slate-100: #fbfbfc;
   --cfe-color--slate-200: #f7f7f8;
   --cfe-color--slate-300: #eeeef1;
@@ -372,28 +396,4 @@
   --cfe-color--mauve-1000: #705e67;
   --cfe-color--mauve-1100: #52444b;
   --cfe-color--mauve-1200: #332b2f;
-  --cfe-color--vanilla-100: #fffffc;
-  --cfe-color--vanilla-200: #fffffa;
-  --cfe-color--vanilla-300: #fffff7;
-  --cfe-color--vanilla-400: #fffff5;
-  --cfe-color--vanilla-500: #fffff0;
-  --cfe-color--vanilla-600: #ffffeb;
-  --cfe-color--vanilla-700: #ffffe6;
-  --cfe-color--vanilla-800: #ffffe0;
-  --cfe-color--vanilla-900: #ffffdb;
-  --cfe-color--vanilla-1000: #ffffd6;
-  --cfe-color--vanilla-1100: #ffffd1;
-  --cfe-color--vanilla-1200: #ffffcc;
-  --cfe-color--chocolate-100: #baa38c;
-  --cfe-color--chocolate-200: #ab8f73;
-  --cfe-color--chocolate-300: #a38566;
-  --cfe-color--chocolate-400: #94704d;
-  --cfe-color--chocolate-500: #855c33;
-  --cfe-color--chocolate-600: #75471a;
-  --cfe-color--chocolate-700: #6e3d0d;
-  --cfe-color--chocolate-800: #663300;
-  --cfe-color--chocolate-900: #572b00;
-  --cfe-color--chocolate-1000: #472400;
-  --cfe-color--chocolate-1100: #381c00;
-  --cfe-color--chocolate-1200: #291400;
 }

diff --git a/style.scss b/style.scss
@@ -70,6 +70,9 @@
 	@each $name, $color in c.$lavender_map {
 		--cfe-color--#{$name}: #{$color};
 	}
+	@each $name, $color in c.$orchid_map {
+		--cfe-color--#{$name}: #{$color};
+	}
 	@each $name, $color in c.$rose_map {
 		--cfe-color--#{$name}: #{$color};
 	}
@@ -94,16 +97,13 @@
 	@each $name, $color in c.$sage_map {
 		--cfe-color--#{$name}: #{$color};
 	}
+	@each $name, $color in c.$denim_map {
+		--cfe-color--#{$name}: #{$color};
+	}
 	@each $name, $color in c.$slate_map {
 		--cfe-color--#{$name}: #{$color};
 	}
 	@each $name, $color in c.$mauve_map {
-		--cfe-color--#{$name}: #{$color};
-	}
-	@each $name, $color in c.$vanilla_map {
-		--cfe-color--#{$name}: #{$color};
-	}
-	@each $name, $color in c.$chocolate_map {
 		--cfe-color--#{$name}: #{$color};
 	}
 }
